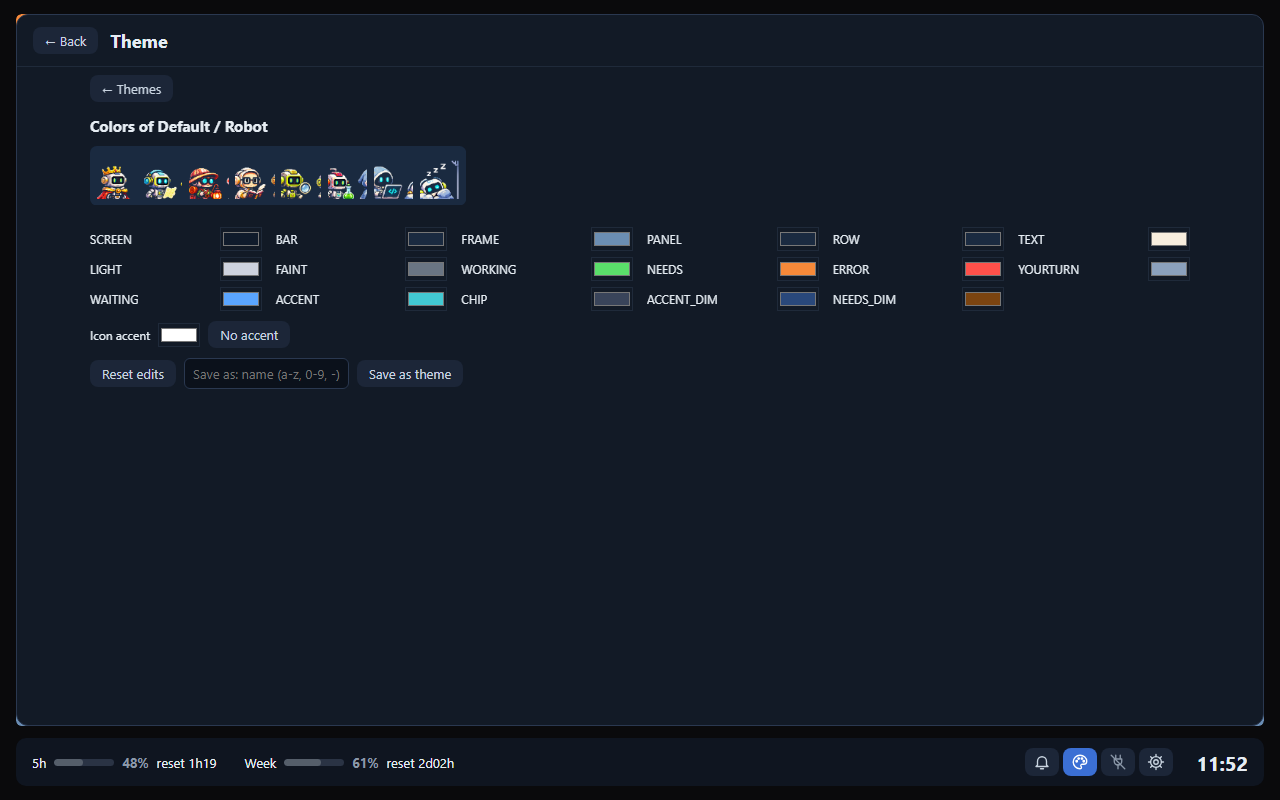
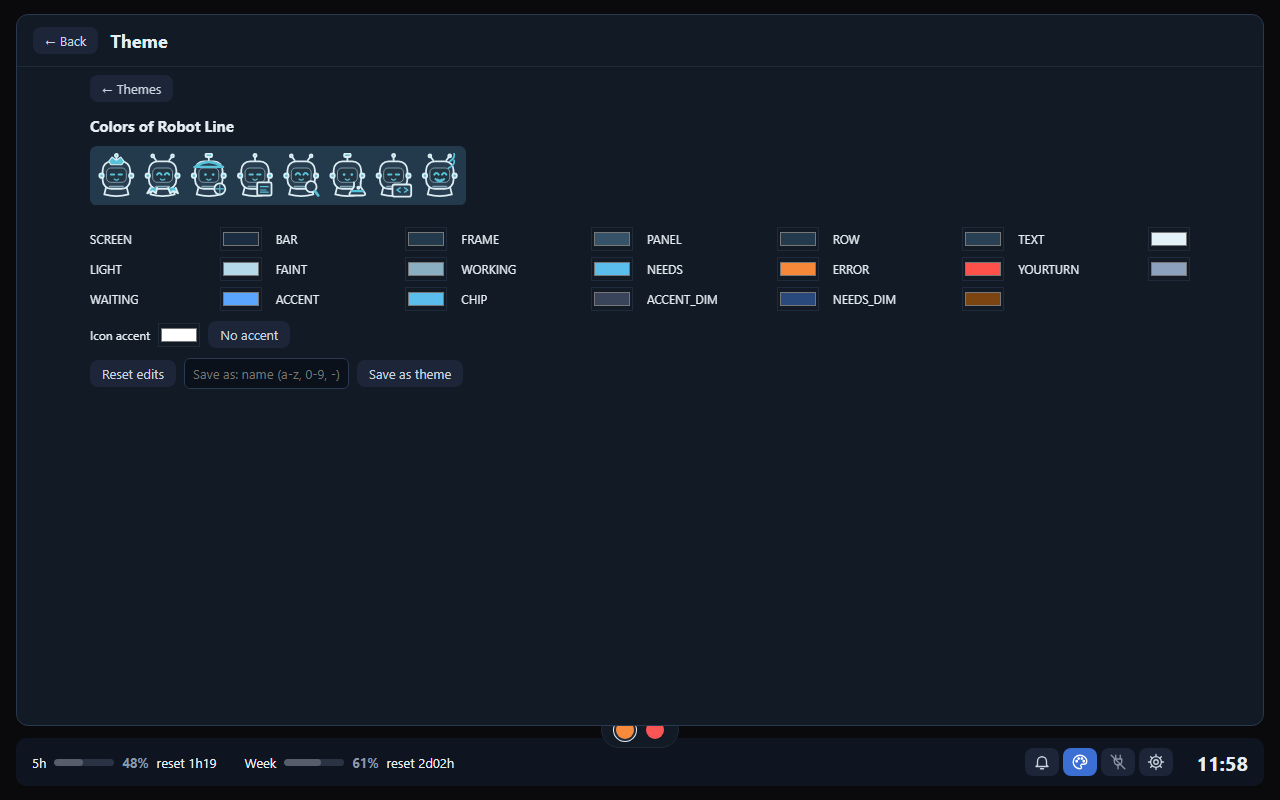
Docs: one real screenshot per feature (robot-line, 4 tiles per page); scenes for the demo hub

diff --git a/README.md b/README.md
@@ -39,7 +39,7 @@ The screenshots below are taken from the real page, fed with made-up sessions (`
 
 ### Plan: see and follow the progress
 
-![A session full screen: plan, context and sub-agents](docs/images/page-fullscreen.png)
+![Plan progress and context of a session](docs/images/page-plan.png)
 
 - Plan progress built from the task list of the session (`TaskCreate`/`TaskUpdate`, `TodoWrite`, the desktop `update_plan`): segmented bar, current step and next step. Steps running in parallel each pulse.
 - Context fill bar next to the plan (green under 60 %, orange 60 to 79 %, red from 80 %).
@@ -47,7 +47,7 @@ The screenshots below are taken from the real page, fed with made-up sessions (`
 
 ### Questions: display and notification
 
-The top tile of the first screenshot is a pending question.
+![A pending question](docs/images/page-question.png)
 
 - A pending `AskUserQuestion` takes the full width with the question and its numbered options. The session turns orange and the page beeps.
 - Permission prompts turn the session orange too.
@@ -59,12 +59,18 @@ Open <http://127.0.0.1:8765/> for a grid with one tile per session, each drawn l
 
 ### Sub-agents: see and follow them
 
+![3 sub-agents](docs/images/page-subs3.png)
+
+![6 sub-agents, compact rows](docs/images/page-compact.png)
+
 - One row per sub-agent: role robot (lead, general, explore, plan, review, test, code, generic), name, current action, age.
 - 1 to 4 sub-agents get large rows, 5 to 7 compact rows, 8 or more show 6 rows and "+N more".
 - Six states with their color: working (green), needs you (orange), error (red), your turn (grey-blue), waiting on sub-agents (blue), done (faint).
 - Robots blink while working, and the state bar of an agent that needs you pulses orange.
 
 ### Click: agent detail and session list
+
+![Agent detail](docs/images/page-detail.png)
 
 - Click a sub-agent row: the left panel shows its full command, tokens and previous command. Click the panel to go back.
 - Click the title bar: one row per session, closes by itself after 8 s. The dots in the title bar show every session state. The **trash icon** at the end of a row hides that session (finished demos, old sessions); it comes back by itself when it works again or asks you something, not when it only reports that it is idle.

diff --git a/CLAUDE.md b/CLAUDE.md
@@ -46,5 +46,5 @@ The page redraws the device screen as vectors: `web/screen.js` is a port of the 
 - Windows: `process.exit` right after spawning the detached hub crashes Node (libuv assertion): hooks set `process.exitCode`.
 - A shell here-document or `sed` turns `\n` in a replacement into a real newline: edit code with an editor tool or a Python script file.
 - `sleep` of more than a few seconds is blocked in the shell tool: wait with a loop on a condition.
-- README screenshots are the real page: `plugin/hub/tools/page_screenshots.mjs` (demo hub from `demo_seed.mjs`, theme from the marketplace through `DEMO_THEMES`, default `robot`, needs network and Edge or Chrome). `screenshots.mjs` draws the device screen scenes only (30 s per scene).
+- README screenshots are the real page: `plugin/hub/tools/page_screenshots.mjs` (demo hub from `demo_seed.mjs`, theme from the marketplace through `DEMO_THEMES`, default `robot-line`, 4 tiles per page, needs network and Edge or Chrome). `screenshots.mjs` draws the device screen scenes only (30 s per scene).
 - Work PC (Windows 10 Enterprise, Fortinet VPN, Dell dock); prefer a personal PC to install new tools.
